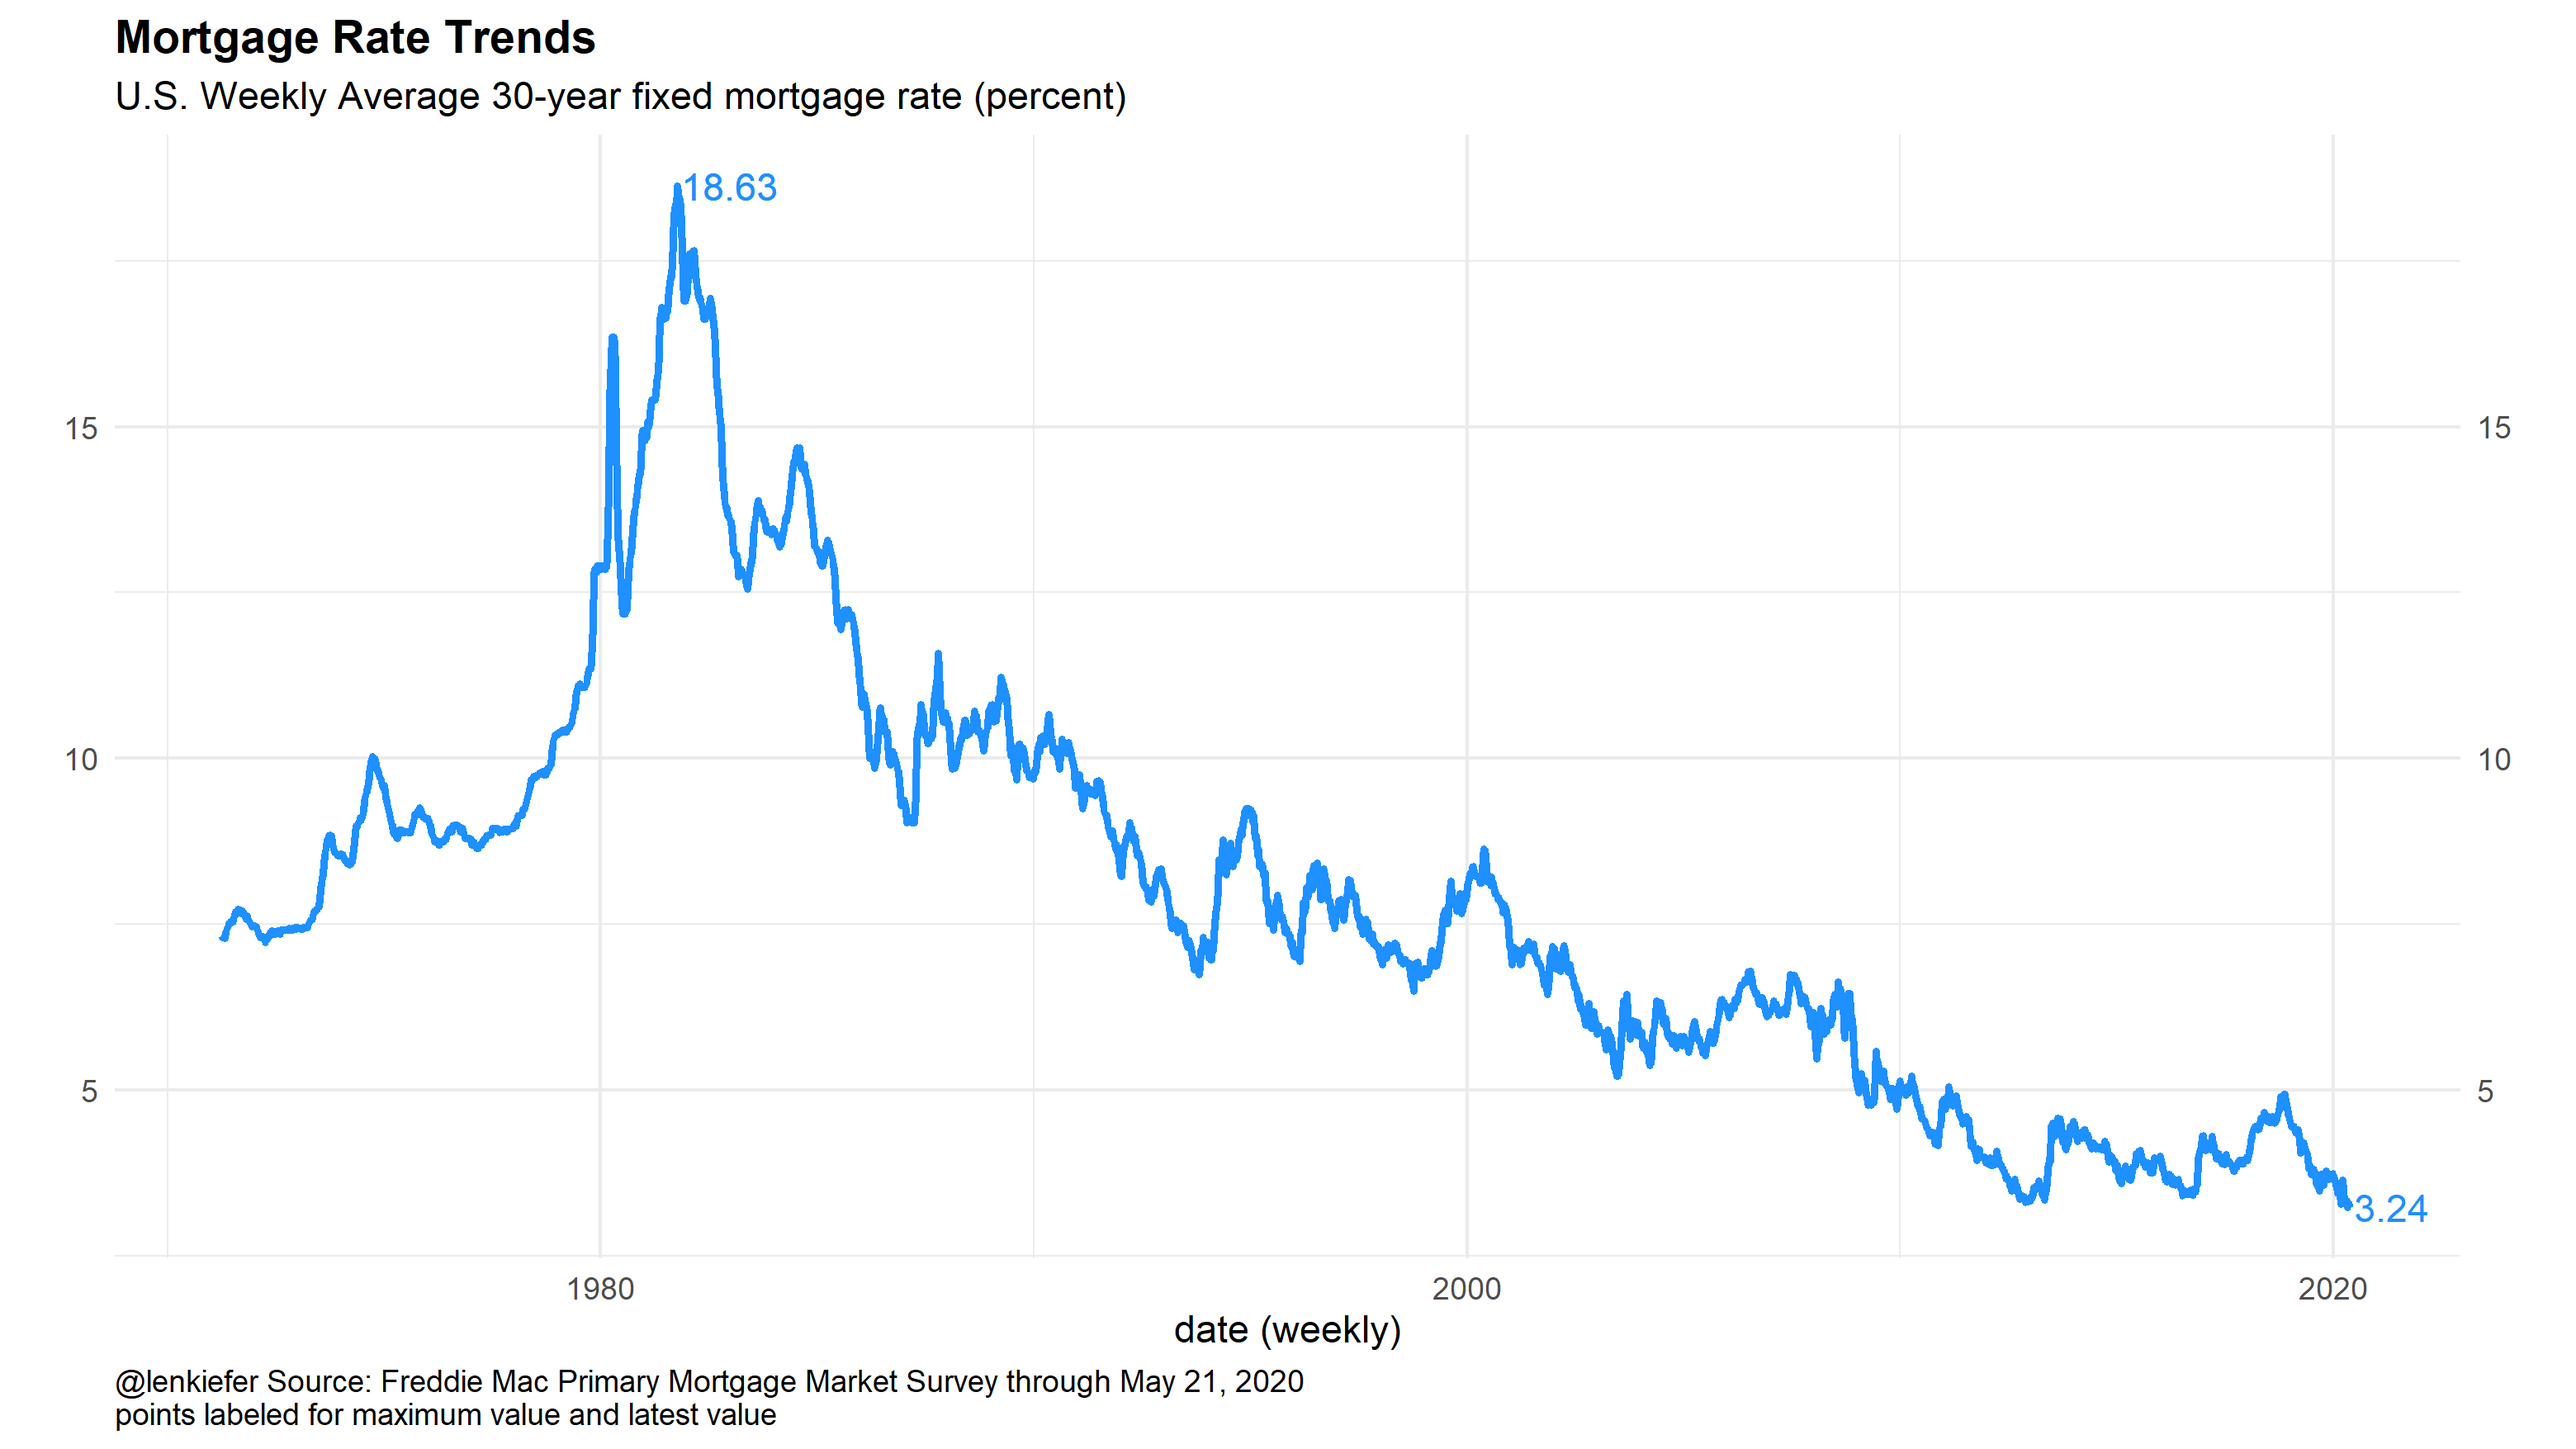
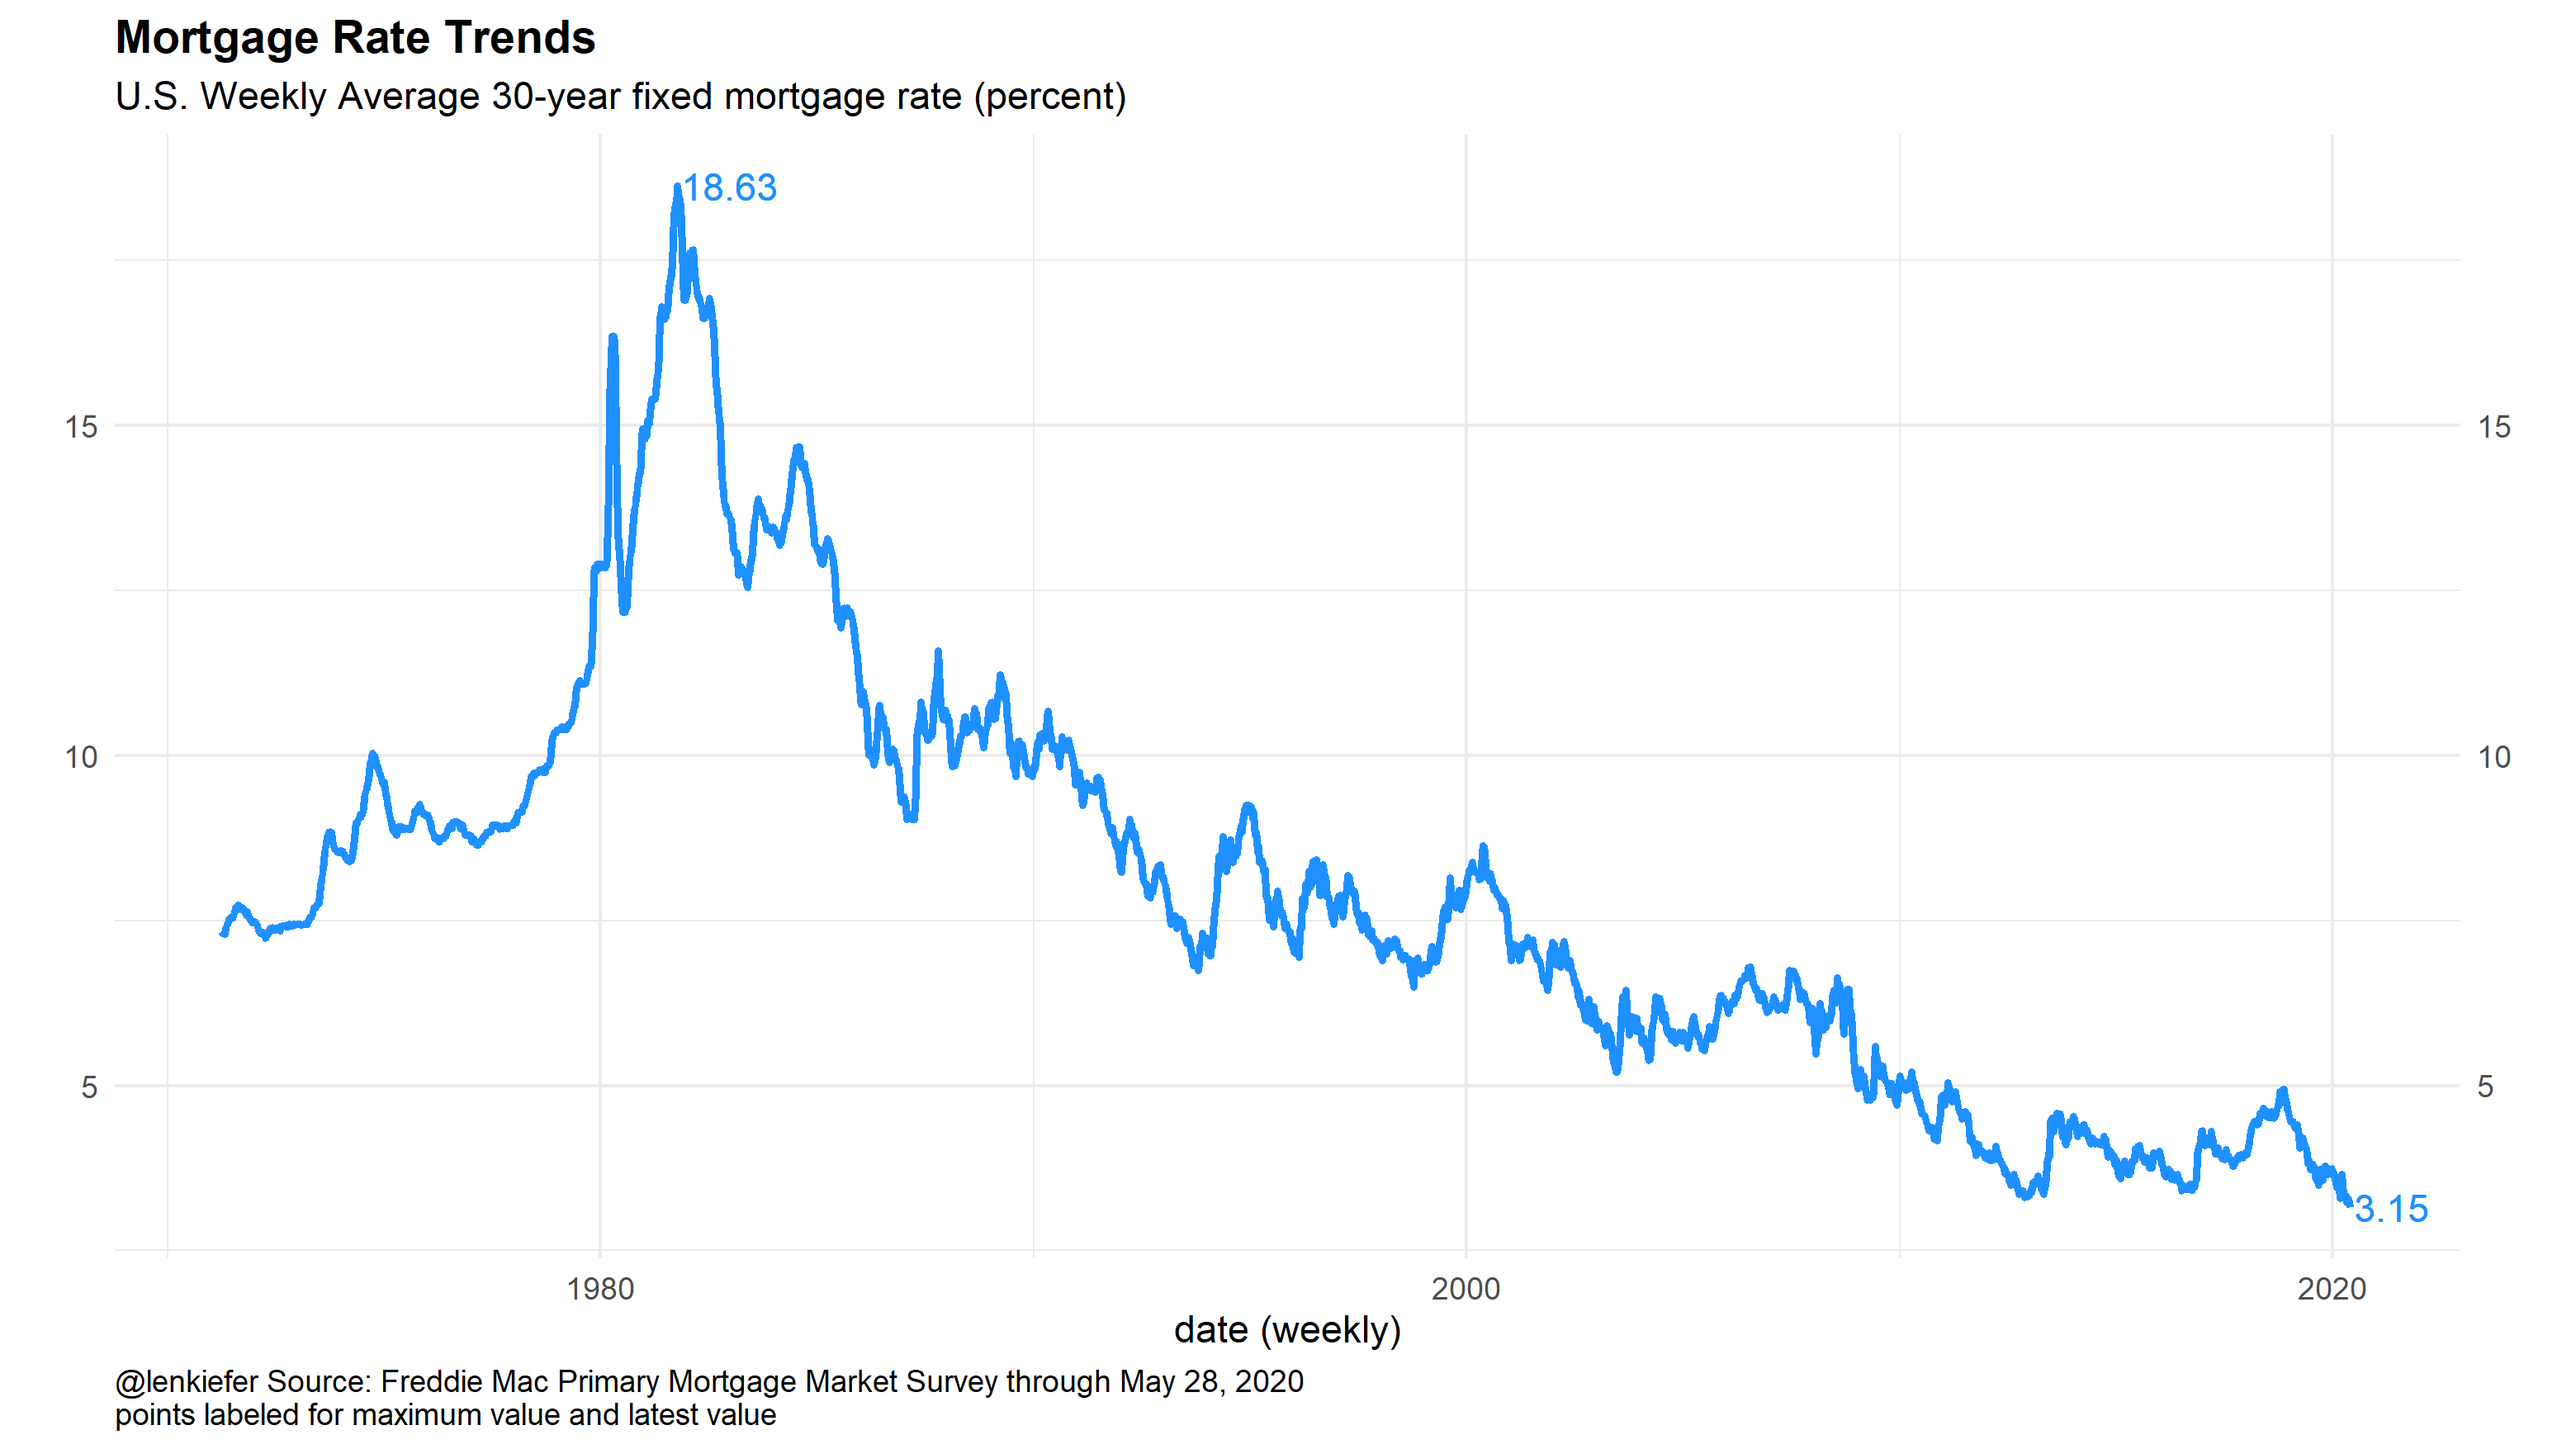
updates may 29 2020

diff --git a/2020/04/20/updated-favorite-data-visualizations/index.html b/2020/04/20/updated-favorite-data-visualizations/index.html
@@ -252,17 +252,17 @@
 <p>Your favorite chart isn’t here? Let me know and maybe I can add it.</p>
 <div id="mortgage-rates" class="section level1">
 <h1>Mortgage Rates</h1>
-<p><em>Last updated 2020-05-22</em></p>
+<p><em>Last updated 2020-05-29</em></p>
 <p>Post <a href="../../../../2019/10/10/visualizing-consumer-price-inflation-and-mortgage-rates/">Visualizing consumer price inflation and mortgage rates</a></p>
 <p><img src="../../../../img/favorites/mtg.png" style="width:550px"></p>
-<p><em>Last updated 2020-05-22</em></p>
+<p><em>Last updated 2020-05-29</em></p>
 <p>Post <a href="../../../../2020/04/30/mortgage-rates-hit-a-record-low/">Mortgage rates hit a record low</a></p>
 <p><img src="../../../../img/favorites/mtg_trend.png" style="width:550px"></p>
 <p><img src="../../../../img/favorites/mtg_trend.gif" style="width:550px"></p>
 </div>
 <div id="jobless-claims-animations" class="section level1">
 <h1>Jobless claims animations</h1>
-<p><em>Last updated 2020-05-22</em></p>
+<p><em>Last updated 2020-05-29</em></p>
 <p>Animated versions of my jobless claims charts.</p>
 <p>Post: <a href="../../../../2020/04/03/us-labor-market-update-april-2020/">Labor Market Update</a></p>
 <p><img src="../../../../img/favorites/ICSA.gif" style="width:550px"></p>
@@ -271,7 +271,7 @@
 </div>
 <div id="new-home-sales" class="section level1">
 <h1>New Home Sales</h1>
-<p><em>Last updated 2020-04-23</em></p>
+<p><em>Last updated 2020-05-29</em></p>
 <p>Post: <a href="../../../../2019/07/24/housing-usually-heats-up-in-summer/">Housing usually heats up in summer</a></p>
 <p><img src="../../../../img/favorites/nhs_grid.png" style="width:550px"></p>
 <p>Post: <a href="http://lenkiefer.com/2017/04/26/housing-data-uncertainty/">Visualizing uncertainty in housing data</a></p>
